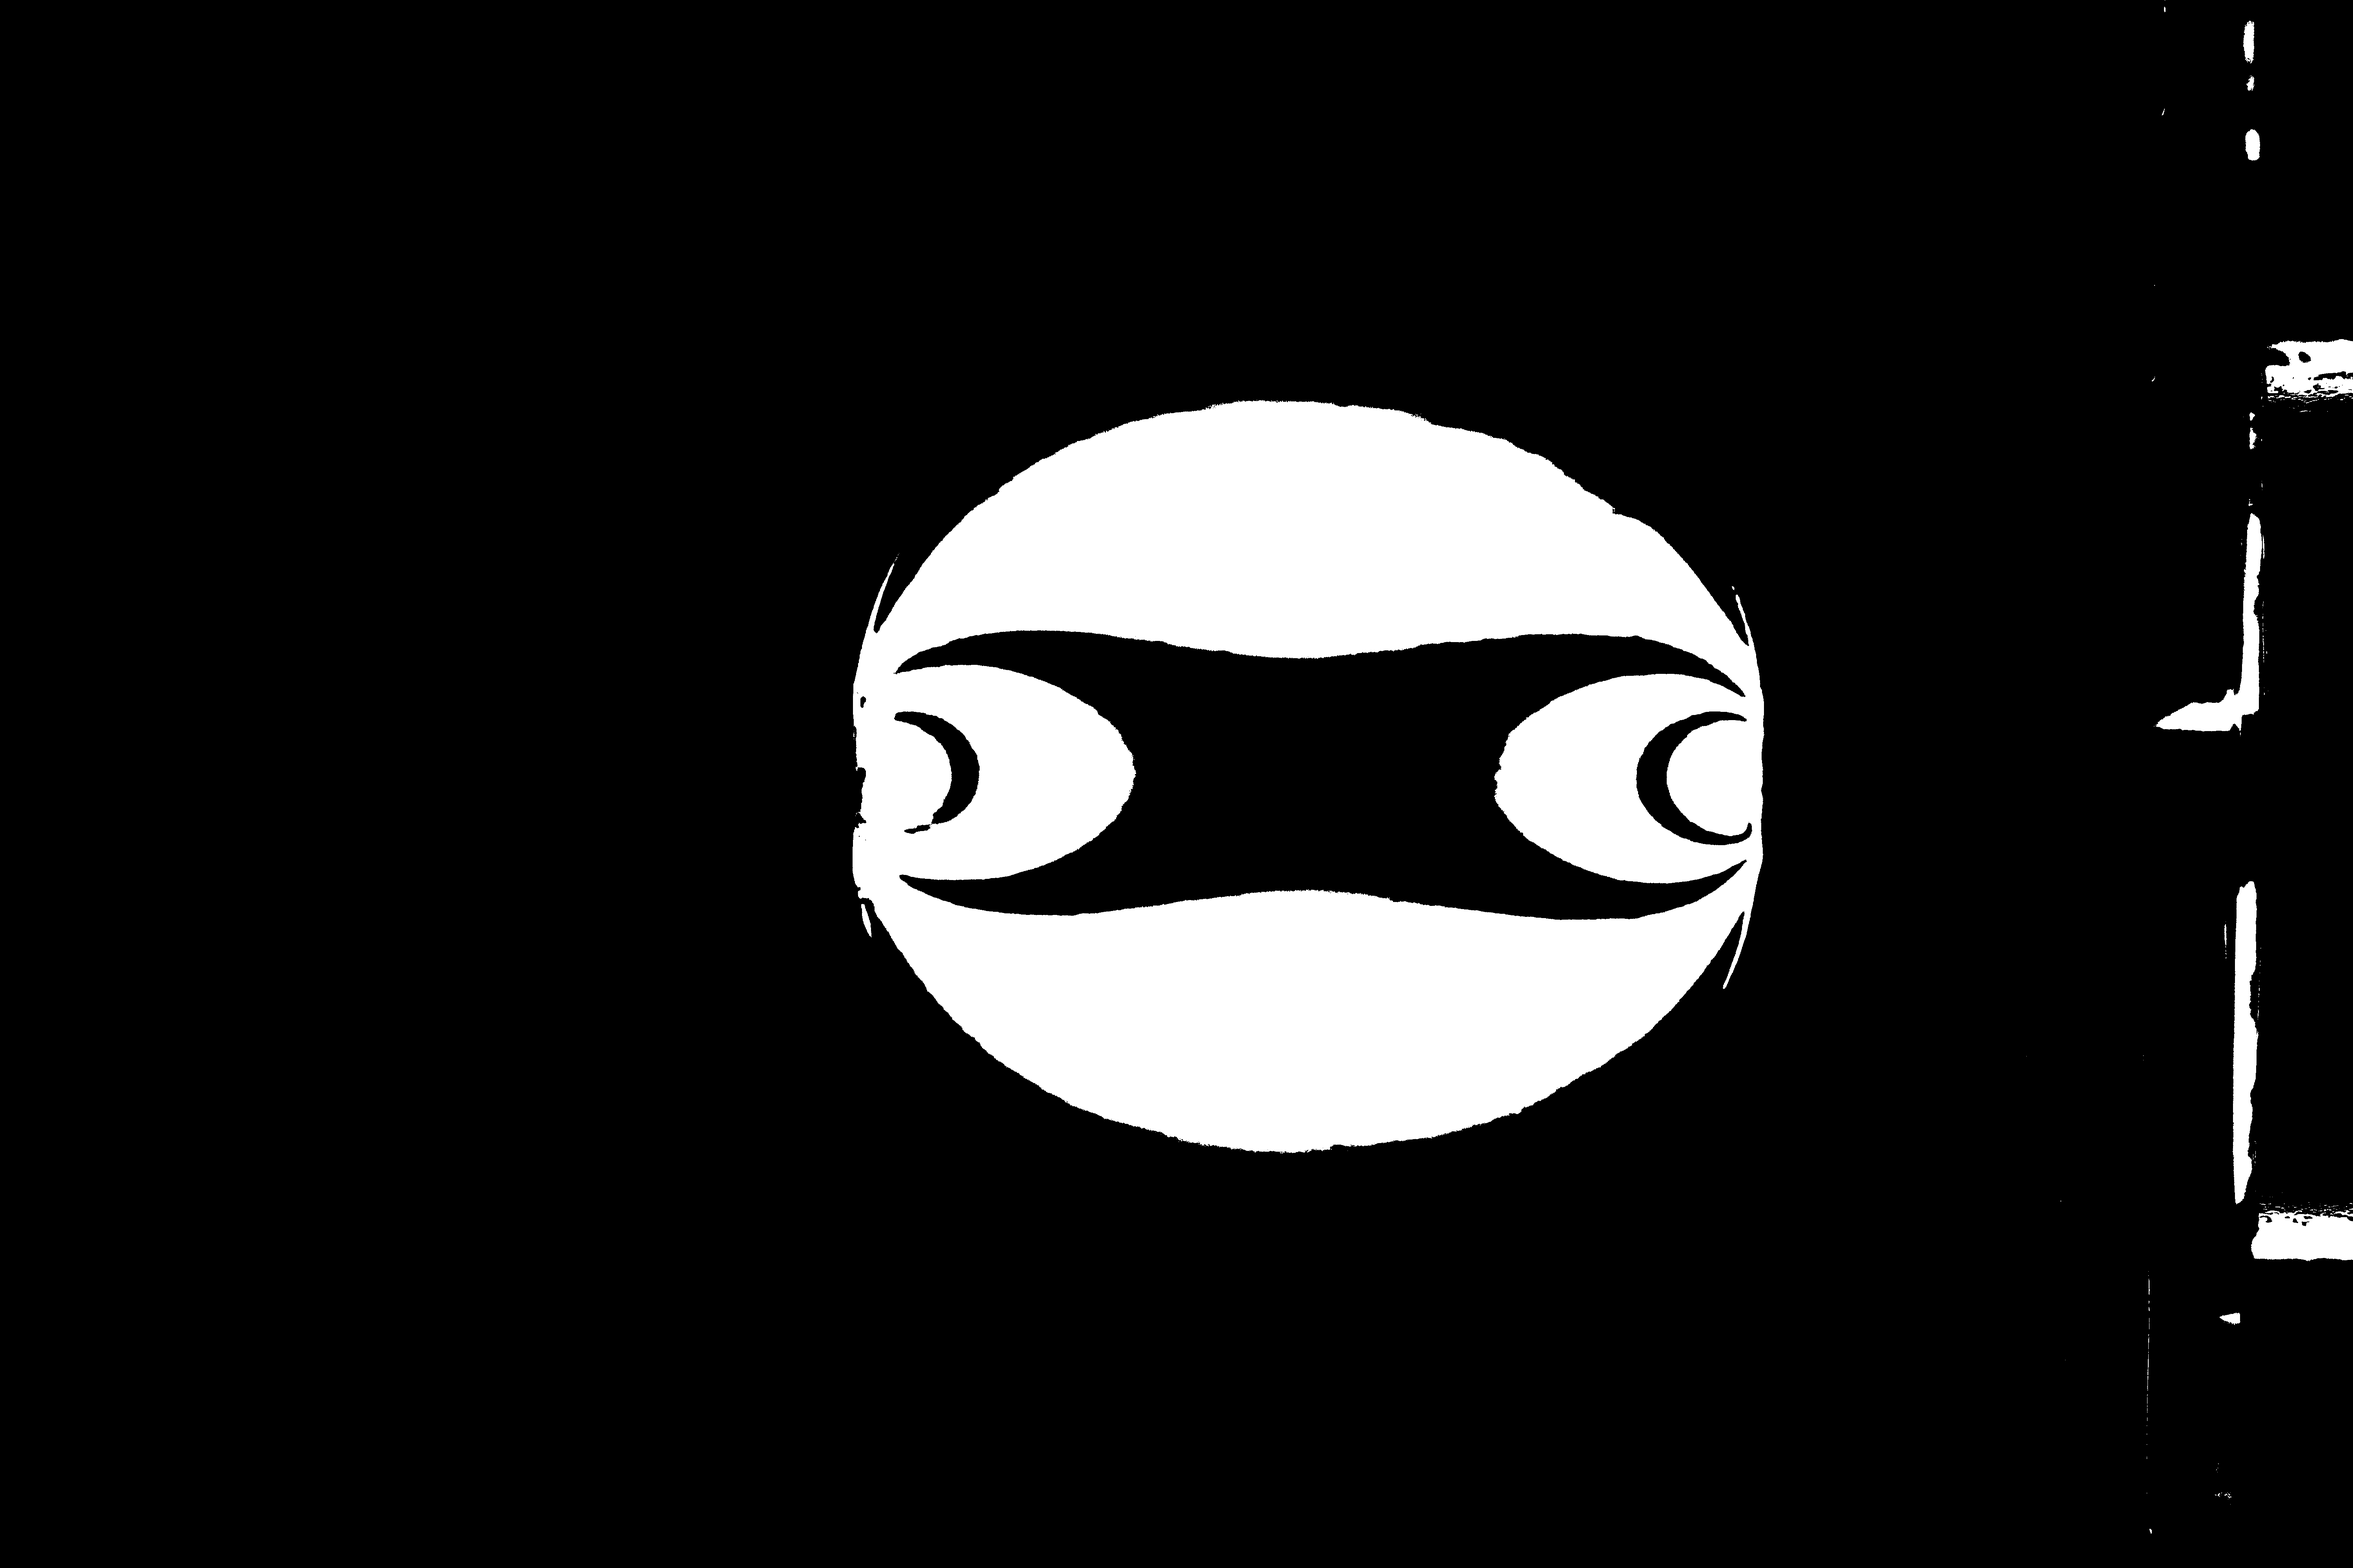
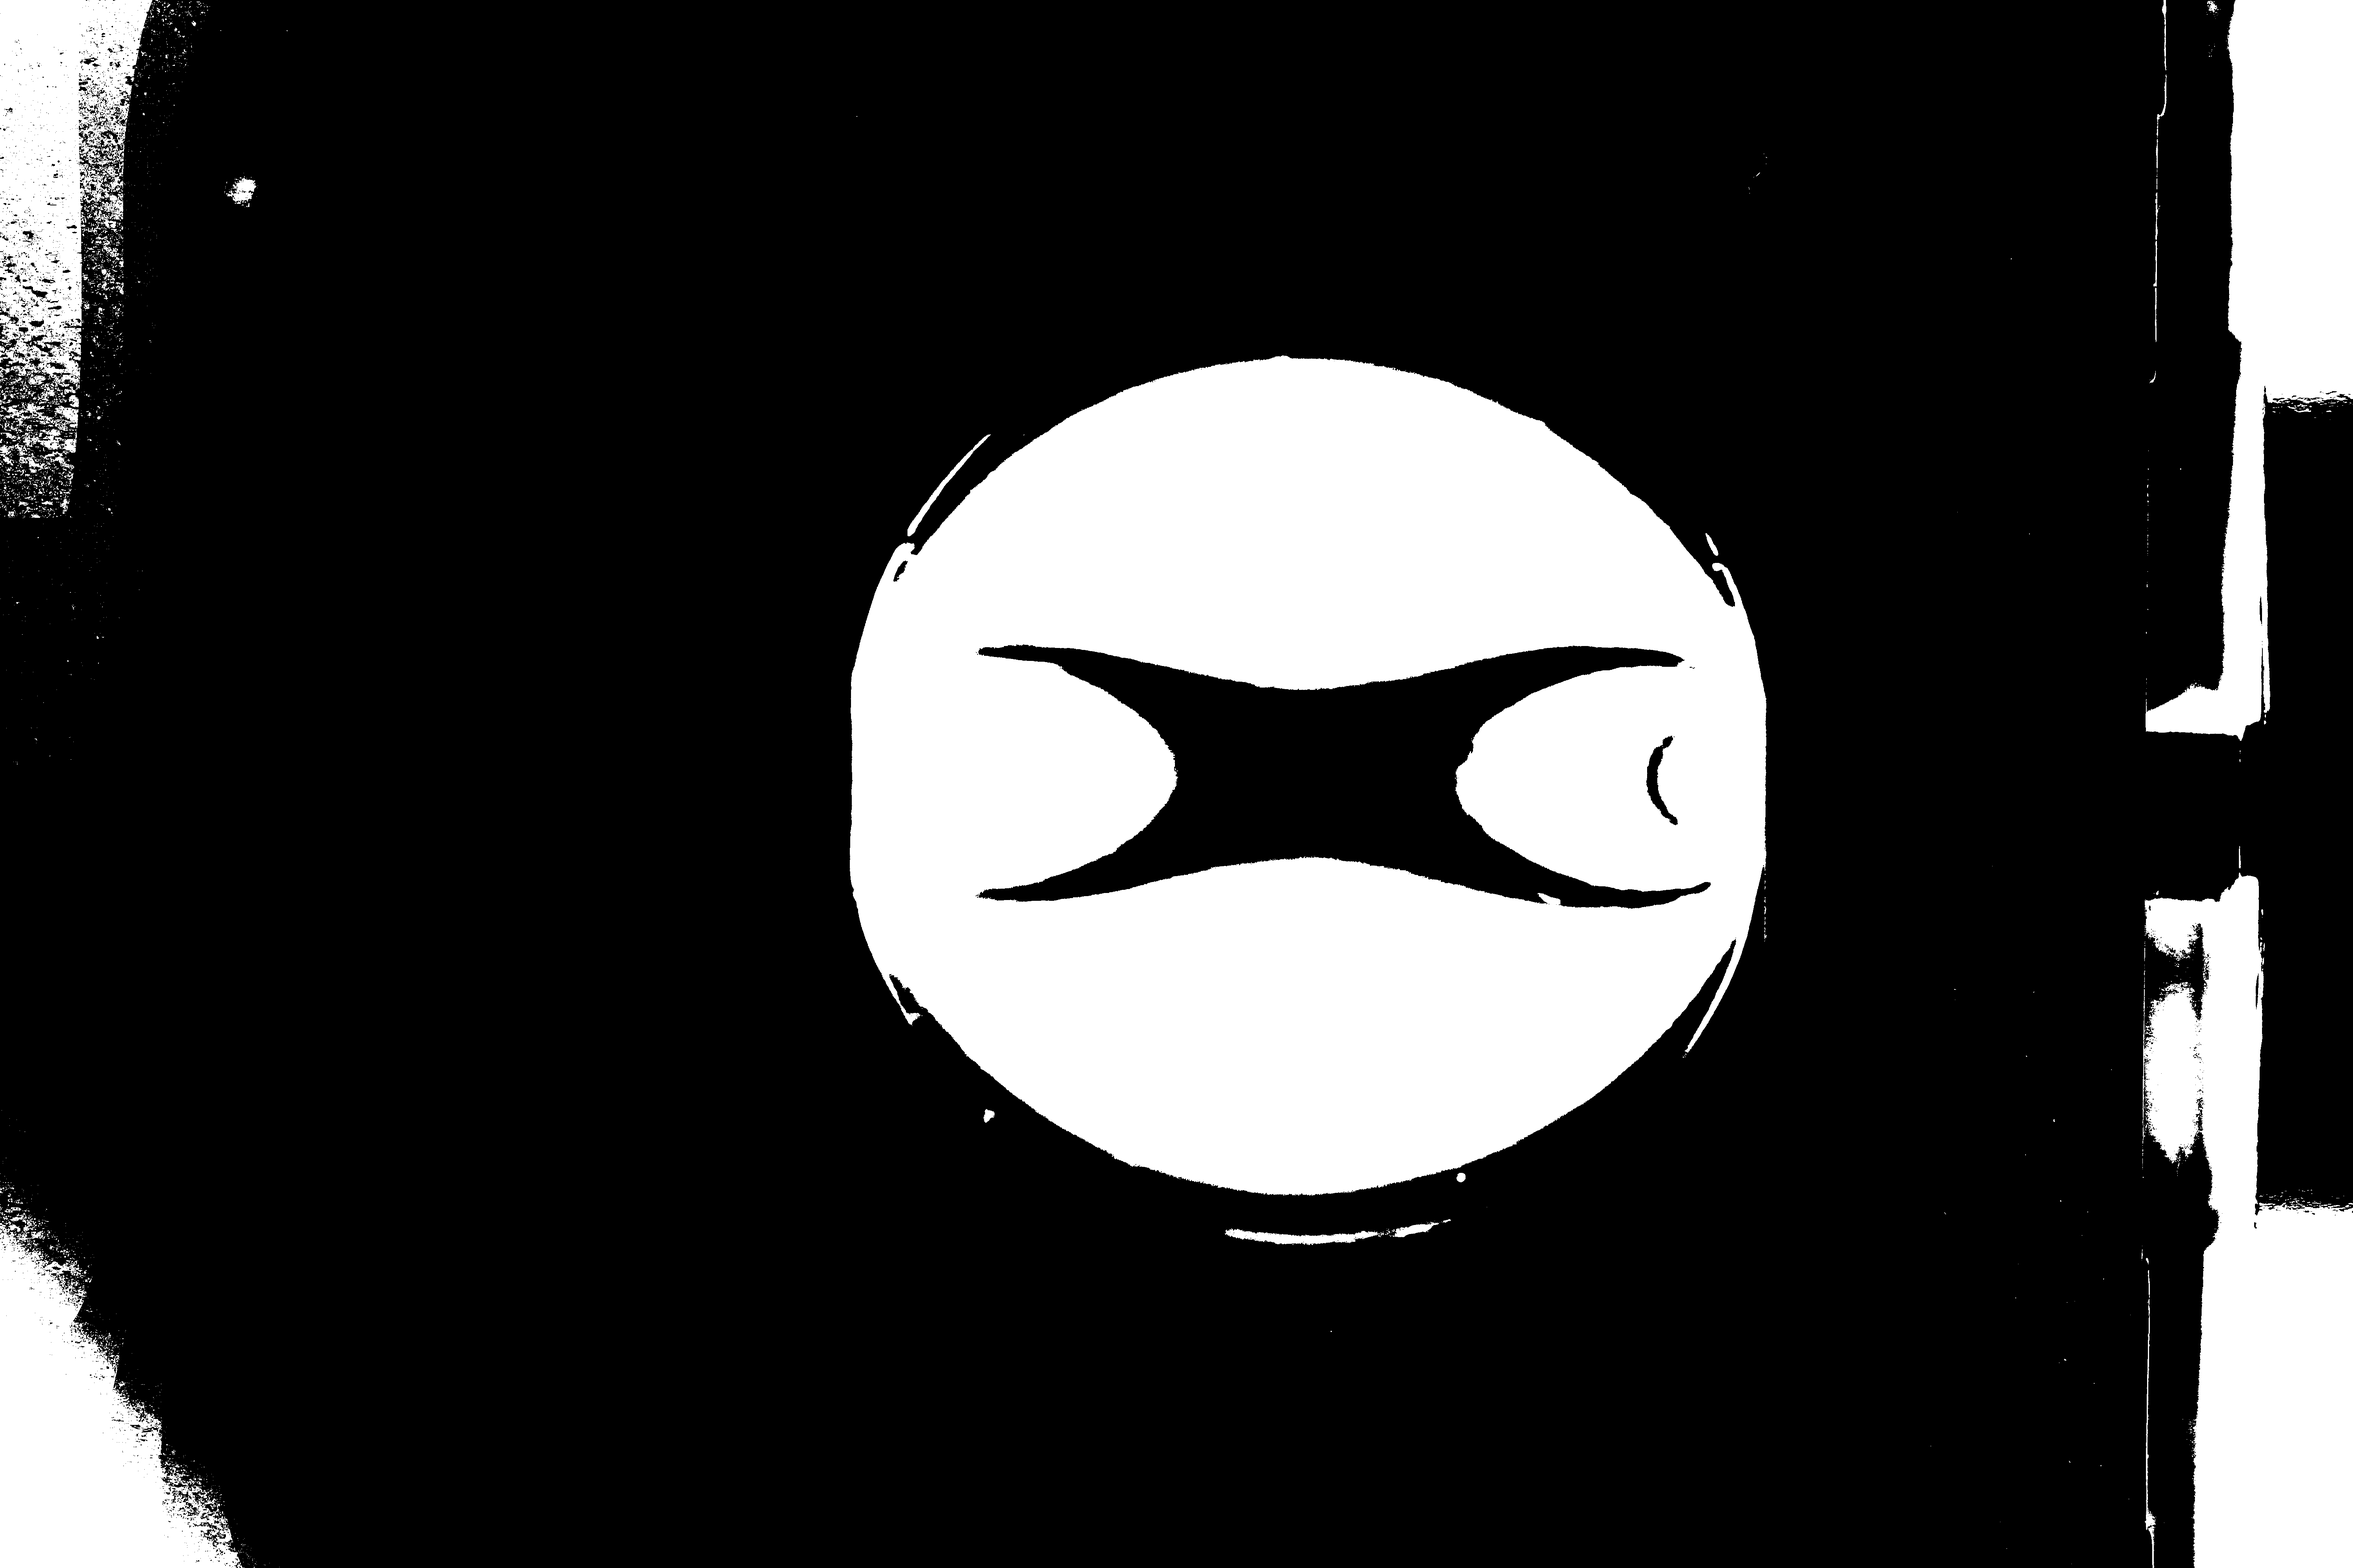
Successful ellipse matching the outer edge of the circle. Seems to work better on the upper edge then the lower one. Bei der unteren Kante sieht es generell so aus, als ob es eine geometrische Verzerrung gibt wie wenn die Kamera nicht so senkrecht drauf schauen würde wie es oben ausschaut

diff --git a/particleDetect.m b/particleDetect.m
@@ -7,7 +7,7 @@
 % 
 % 
 % **i/o**
-% The input of this module are experimental images. It is assumed that the image is RGB, the particles are detected using the red channel and the green channel contains the force information. 
+% The input of this module are experimental images. It is assumed that the image is RGB, the particles are detected using the green channel and the green channel contains the force information. 
 % 
 % **i** 
 % N input images
@@ -59,28 +59,51 @@ nFrames = length(images);
 
 for frame = 1:nFrames
  
-    im    = imread(fullfile(images(frame).folder, images(frame).name));
-    red   = im(:,:,2);   % particle shape channel
-    green = im(:,:,2);   % photoelastic (force) channel
+    im      = imread(fullfile(images(frame).folder, images(frame).name));
+    red     = im(:,:,1);   % photoelastic (force) channel
+    green   = im(:,:,2);   % particle shape channel
+    blue    = im(:,:,3);   % unused (background)
+    
  
     % Suppress green bleed-through (same correction as original PeGS2)
-    % red = imsubtract(red, green * 0.05);
+    % green = imsubtract(green, green * 0.05);
     
-    imshow(red);
+    imwrite(green, 'green.png');
+
     imwrite(red, 'red.png');
+
+    imwrite(blue, 'blue.png');
+
+
+    bw_test = green > 15;
+    imwrite(bw_test, 'bw_test.png');
 
     % ── Binarise ──────────────────────────────────────────────────────────
     switch lower(pdParams.threshMethod)
         case 'adaptive'
-            T  = adaptthresh(red, pdParams.adaptSens, 'ForegroundPolarity', 'bright');
-            bw = imbinarize(red, T);
+            T  = adaptthresh(green, pdParams.adaptSens, ...
+                            'ForegroundPolarity', 'bright', ...
+                            'NeighborhoodSize',   2*floor(pdParams.adaptNeighbourhood/2)+1);
+            bw = imbinarize(green, T);
         case 'otsu'
-            bw = imbinarize(red);   % Otsu global threshold
+            bw = imbinarize(green);   % Otsu global threshold
+        case 'green_twopass'
+        % Coarse pass: Otsu to get approximate particle blobs
+        bw_coarse = imfill(imbinarize(channel), 'holes');
+        bw_coarse = bwareaopen(bw_coarse, round(pi * pdParams.radiusRange(1)^2 / 4));
+        % Dilate coarse mask to capture dark stress-free edge band
+        se_d = strel('disk', round(pdParams.radiusRange(2) * 0.15));
+        mask = imdilate(bw_coarse, se_d);
+        % Fine pass: adaptive threshold, restricted to mask region
+        T  = adaptthresh(channel, pdParams.adaptSens, ...
+             'ForegroundPolarity', 'bright', ...
+             'NeighborhoodSize', 2*floor(pdParams.adaptNeighbourhood/2)+1);
+        bw = imbinarize(channel, T);
+        bw = (bw | bw_coarse) & mask;   % union inside dilated region
         otherwise
             error('Unknown threshMethod: %s', pdParams.threshMethod);
     end
 
-    imshow(bw);
     imwrite(bw, 'bw_0.png');
  
     % ── Morphological cleaning ────────────────────────────────────────────
@@ -88,18 +111,16 @@ for frame = 1:nFrames
     minArea = pi * pdParams.radiusRange(1)^2 / 2;
     bw      = bwareaopen(bw, round(minArea));
  
-    imshow(bw);
     imwrite(bw, 'bw_1.png');
 
     if pdParams.fillHoles
         bw = imfill(bw, 'holes');
     end
     
-    imshow(bw);
     imwrite(bw, 'bw_2.png');
 
     % ── Measure blob properties ───────────────────────────────────────────
-    stats = regionprops(bw, ...
+    stats = regionprops(bw_test, ...
         'Centroid', ...
         'MajorAxisLength', ...
         'MinorAxisLength', ...
@@ -109,6 +130,16 @@ for frame = 1:nFrames
         'BoundingBox');
  
     % ── Filter blobs by radius range and solidity ────────────────────────
+    keep = false(numel(stats), 1);
+    for k = 1:numel(stats)
+        r_eff = (stats(k).MajorAxisLength + stats(k).MinorAxisLength) / 4;
+        if r_eff >= pdParams.radiusRange(1) && ...
+           r_eff <= pdParams.radiusRange(2) && ...
+           stats(k).Solidity >= pdParams.minSolidity
+            keep(k) = true;
+        end
+    end
+    stats = stats(keep);
 
     nParticles = numel(stats);
  
@@ -150,7 +181,7 @@ for frame = 1:nFrames
     % ── Verbose: draw ellipses over image ─────────────────────────────────
     if verbose && nParticles > 0
         figure('Name', sprintf('Frame %d — ellipse fit', frame), 'NumberTitle', 'off');
-        imshow(red);
+        imshow(green);
         hold on;
  
         for k = 1:nParticles
@@ -173,7 +204,7 @@ for frame = 1:nFrames
             % Edge flag
             edgeStr = edgeFlagString(edges(k));
             text(centers(k,1), centers(k,2) + radii(k)*0.7, edgeStr, ...
-                'Color', 'red', 'FontSize', 10, 'FontWeight', 'bold', ...
+                'Color', 'green', 'FontSize', 10, 'FontWeight', 'bold', ...
                 'HorizontalAlignment', 'center');
         end
  
@@ -282,7 +313,7 @@ end
 
 %set radius range
 if isfield(p,'radiusRange') == 0
-    p.radiusRange = [45 80];
+    p.radiusRange = [1000 2000];
 end
 
 
@@ -309,12 +340,24 @@ end
 
 % Thresholding strategy: 'adaptive' | 'otsu'
 if ~isfield(p, 'threshMethod')
-    p.threshMethod = 'otsu';
+    p.threshMethod = 'adaptive';
 end
 
 % Sensitivity for adaptthresh (ignored when threshMethod is 'otsu')
 if ~isfield(p, 'adaptSens')
     p.adaptSens = 0.55;
+end
+
+% Neighbourhood for adaptthresh (pixels). 
+% Rule of thumb: ~2x expected particle diameter.
+if ~isfield(p, 'adaptNeighbourhood')
+    p.adaptNeighbourhood = 4000;   % must be odd; will be forced odd automatically
+end
+
+% Morphological closing radius (pixels) to bridge dark edge gaps.
+% 0 = disabled.
+if ~isfield(p, 'closingRadius')
+    p.closingRadius = 7;
 end
 
 end

diff --git a/RunscriptSample_CF50_2.m b/RunscriptSample_CF50_2.m
@@ -19,7 +19,7 @@ verbose = true; % do you want plots?
 %% particleDetect parameters
 
 pdParams.boundaryType = "rectangle";
-pdParams.radiusRange = [200 400]; %range in pixels to look for particles
+pdParams.radiusRange = [1000 2000]; %range in pixels to look for particles
 pdParams.dtol = 10; %classify edge particles with tolerance
 pdParams.sensitivity = 0.945; %sensitivity for Hough
 pdParams.edgeThresh = 0.02; %senstitivity for Hough
